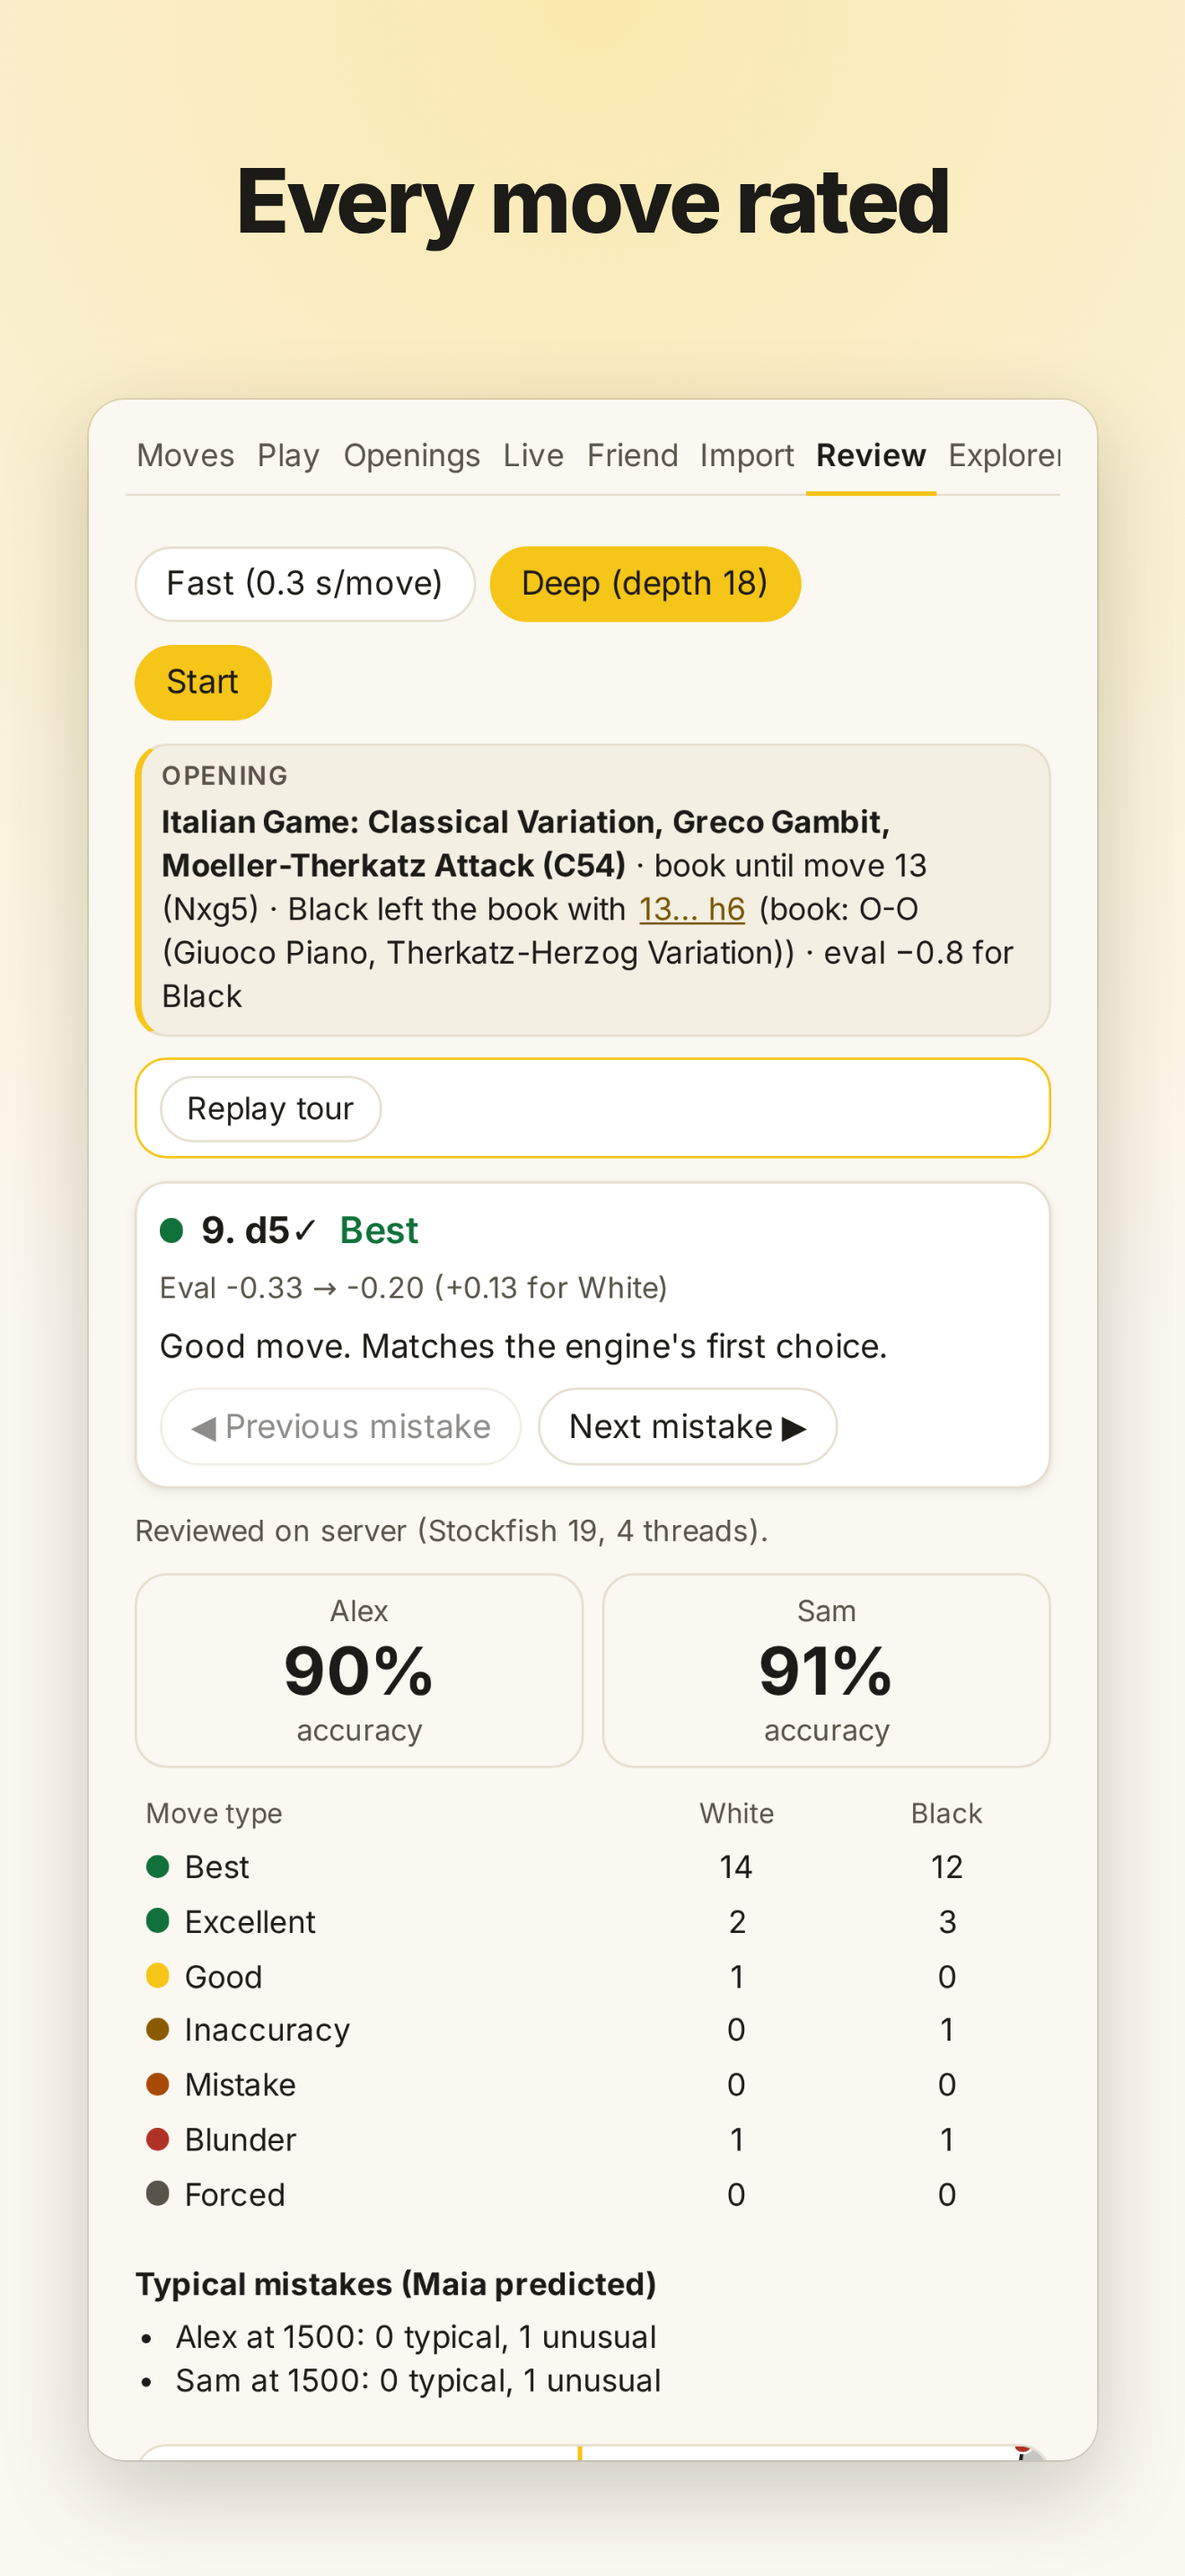
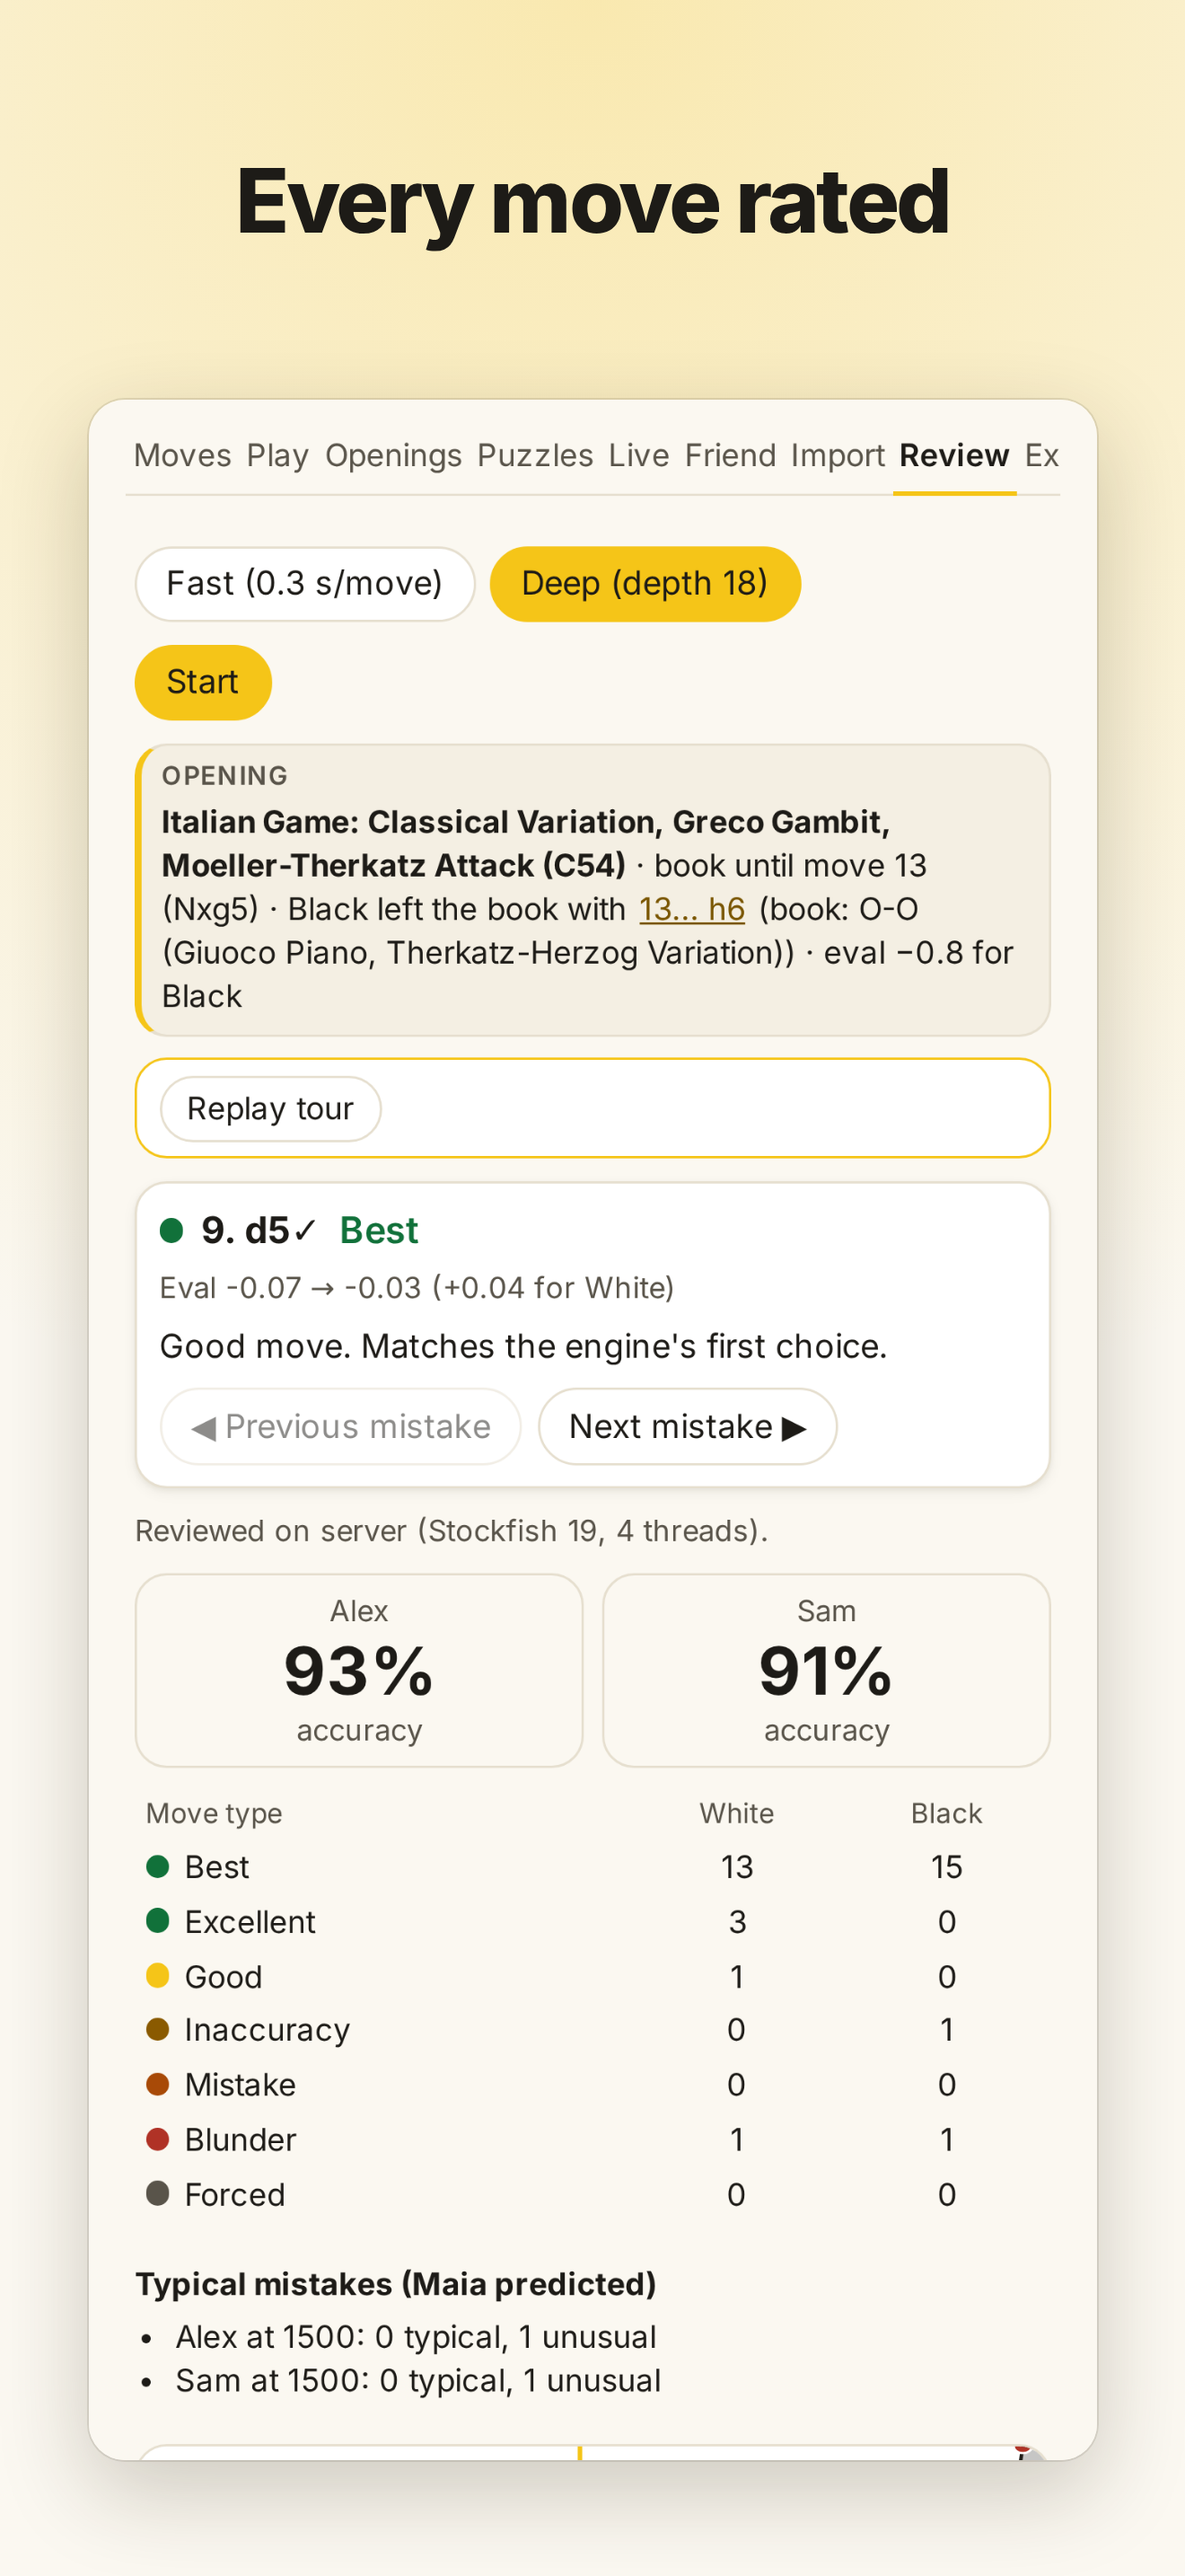
feat(mobile): store listing with puzzles (paragraph, keywords, short description) and a puzzles screenshot for all sizes (M30-13)
Claude-Session: https://claude.ai/code/session_01RtGHnyT8Lnfr8XWn7fvfNy

diff --git a/apps/mobile/test/store.test.ts b/apps/mobile/test/store.test.ts
@@ -31,8 +31,9 @@ describe('store listing texts', () => {
     expect(len(l.apple.description)).toBeLessThanOrEqual(4000);
     expect(len(l.apple.keywords)).toBeLessThanOrEqual(100);
     expect(l.apple.keywords).not.toMatch(/\s|,,|^,|,$/);
-    // No features we do not have and no third-party names.
-    expect(l.apple.keywords).not.toMatch(/puzzle|tactic|lichess|chess\.com/i);
+    // No third-party names and no features we do not have (puzzles exist since M30).
+    expect(l.apple.keywords).not.toMatch(/tactic|lichess|chess\.com/i);
+    expect(l.apple.keywords).toMatch(/(^|,)puzzles?(,|$)/);
   });
 
   it('names the publisher and makes no false claims', () => {

diff --git a/docs/PLAN.md b/docs/PLAN.md
@@ -286,5 +286,5 @@ Order: M30-1 first (everything imports it). Then in parallel: M30-2 (pipeline/de
 | | *Acceptance:* component tests: due ordering, prompt sets the side and triggers generation, Open game loads the moves and the ply, delete removes the entry; axe clean | | |
 | M30-12 | Stage 2 docs + e2e: README/`apps/web/README.md` "Your mistakes", `docs/PRIVACY.md` (local reviews and ledger, nothing uploaded), e2e `puzzles-mistakes.spec.ts` (review a fixture PGN in the browser, pick the side, generate, solve one, SR state) | worker | todo |
 | | *Acceptance:* e2e green on CI (browser engine); docs reviewed by the orchestrator | | |
-| M30-13 | Store listing: "puzzle,puzzles" back in the keywords, PUZZLES paragraph (lichess puzzles, daily, rush, own mistakes; offline), screenshot of the Puzzles tab in `store-screenshots.mjs`; `apps/site/STORE_CHECKLIST.md` updated | worker | todo |
+| M30-13 | Store listing: "puzzle,puzzles" back in the keywords, PUZZLES paragraph (lichess puzzles, daily, rush, own mistakes; offline), screenshot of the Puzzles tab in `store-screenshots.mjs`; `apps/site/STORE_CHECKLIST.md` updated | worker | done (listing + screenshots; STORE_CHECKLIST.md not changed, it has no per-scene list) |
 | | *Acceptance:* `apps/mobile/test/store.test.ts` specs (keyword length ≤ 100, description lengths) pass; screenshot set regenerates | | |

diff --git a/apps/mobile/store/README.md b/apps/mobile/store/README.md
@@ -16,7 +16,7 @@ Run from `apps/mobile` (or give the full path). Options of the screenshot script
 
 Screenshot sizes (pixels): `play-phone` 1080x2160, `play-tablet-7` 1200x1920, `play-tablet-10` 2560x1600 (Google Play),
 `iphone-6.9` 1320x2868, `ipad-13` 2064x2752 (App Store). Per size: 6 screenshots (reviewed game with arrows,
-review summary, play vs Maia, openings trainer, explorer, dark review) (5 light, 1 dark), each a marketing frame: caption, the app screen with rounded corners and a soft shadow.
+review summary, play vs Maia, openings trainer, puzzles, dark review) (5 light, 1 dark), each a marketing frame: caption, the app screen with rounded corners and a soft shadow.
 
 Content notes: the game is invented (players "Alex" and "Sam"); Maia is a real local engine server with a dummy token;
 the opening explorer needs a lichess login, so its responses are mocked (illustrative numbers, no games or players).
